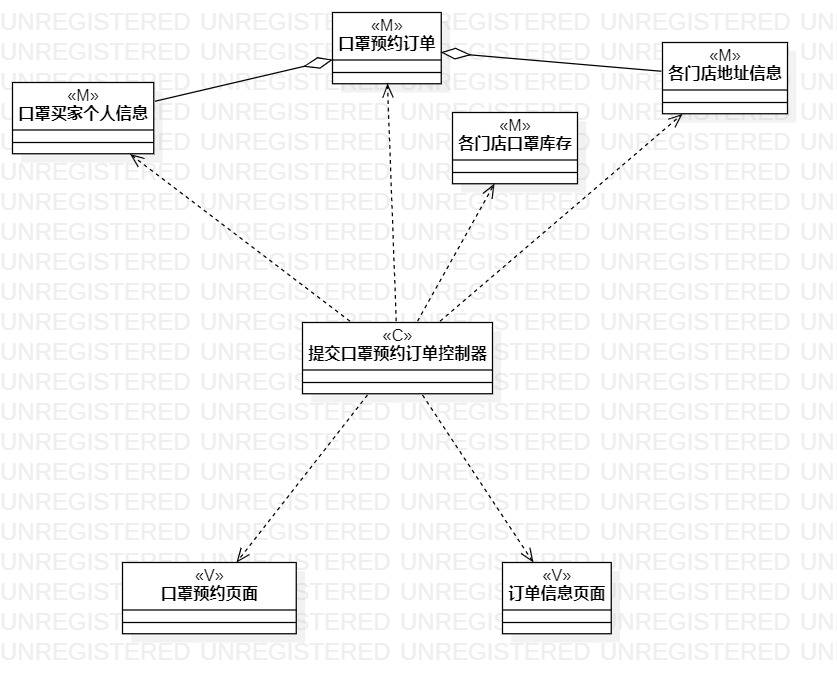
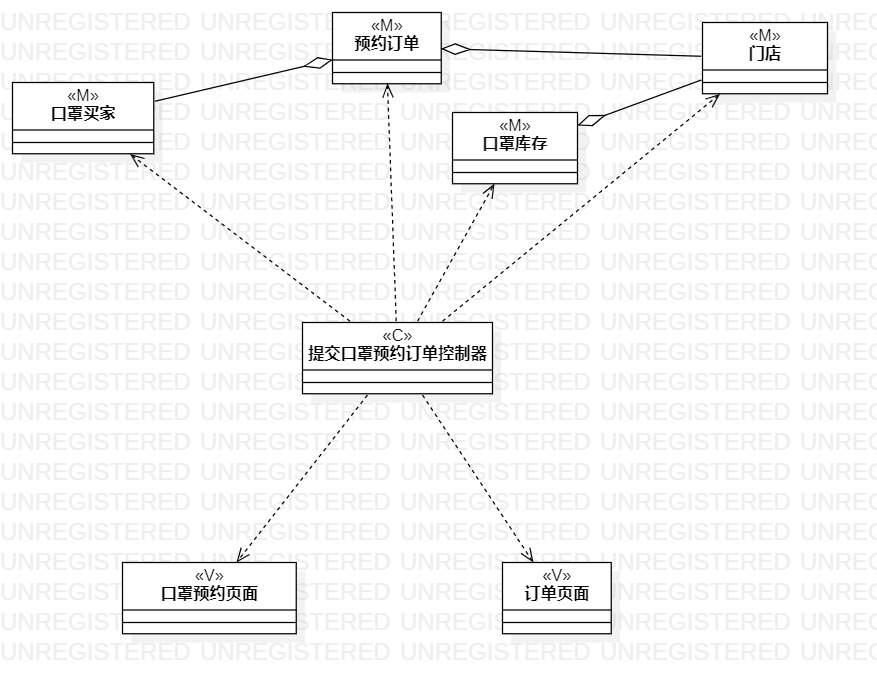
#2 #3 #4 #5 #299 实验二三四五小改动

diff --git a/students/1714080902205/lab4-5.md b/students/1714080902205/lab4-5.md
@@ -24,13 +24,13 @@
 
 1.创建“提交个人信息”类项目：
 
-- 创建提交个人信息控制器类图、口罩买家个人信息类图、提交个人信息页面类图和小程序首页类图。
+- 创建提交个人信息控制器类图、口罩买家类图、提交个人信息页面类图和小程序首页类图。
 - 用依赖线分别连接提交个人信息控制器类图与其他各类图。
 
 2.创建“提交口罩预约订单”类项目：
 
-- 创建提交口罩预约订单控制器类图、口罩买家个人信息类图、口罩预约订单类图、各门店口罩库存类图、各门店地址信息类图、口罩预约页面类图和订单信息页面类图。
-- 用依赖线连接提交口罩预约订单控制器类图与其他各类图；再用聚合线连接口罩买家个人信息类图与口罩预约订单类图、各门店地址信息类图与口罩预约订单类图。
+- 创建提交口罩预约订单控制器类图、口罩买家类图、预约订单类图、口罩库存类图、门店类图、口罩预约页面类图和订单页面类图。
+- 用依赖线连接提交口罩预约订单控制器类图与其他各类图；再用聚合线连接口罩买家类图与预约订单类图、门店类图与预约订单类图、门店类图与口罩库存类图。
 
 
 
@@ -51,8 +51,4 @@
 ![提交口罩预约订单类图](./lab4-5_ClassDiagram2.jpg)     
 
 图2 提交口罩预约订单类图
-
-
-
-图2说明：各门店口罩库存类图只用于检查门店口罩数量和进行数据操作，并没有与口罩预约订单类图有聚合关系。
 

diff --git a/students/1714080902205/lab2.md b/students/1714080902205/lab2.md
@@ -57,12 +57,12 @@
 | -------- | ------------------------------------------------------------ |
 | 用例名称 | 提交口罩预约订单                                             |
 | 前置条件 | 口罩买家已提交个人信息                                       |
-| 后置条件 | 系统显示订单信息页面                                         |
+| 后置条件 | 系统显示订单页面                                             |
 | 基本流程 | 1.口罩买家点击“口罩预约”链接；                               |
 | ~        | 2.系统显示“口罩预约”页面；                                   |
 | ~        | 3.口罩买家选择“预约数量”、“预约门店地址”，点击“预约”按钮；   |
 | ~        | 4.系统检查预约数量不超过2包，并且预约的门店有存货，保存口罩预约订单，同时减去预约门店的口罩存货数量； |
-| ~        | 5.系统提示“预约成功”，并跳转到订单信息页面。                 |
+| ~        | 5.系统提示“预约成功”，并跳转到订单页面。                     |
 | 扩展流程 | 4.1 系统检查到预约数量超过两包，提示"口罩数量每人仅限2包"；  |
 | ~        | 4.2 系统检测预约门店存货数量小于预约的口罩数量，提示“所选门店口罩存货不足”。 |
 
